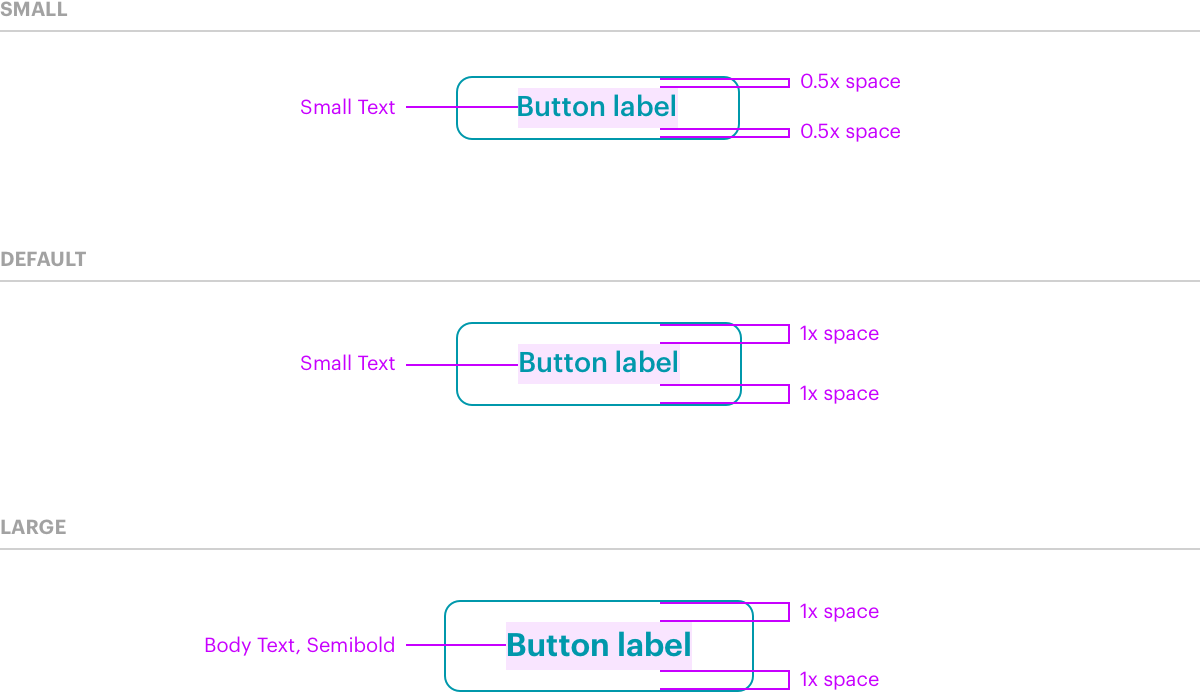
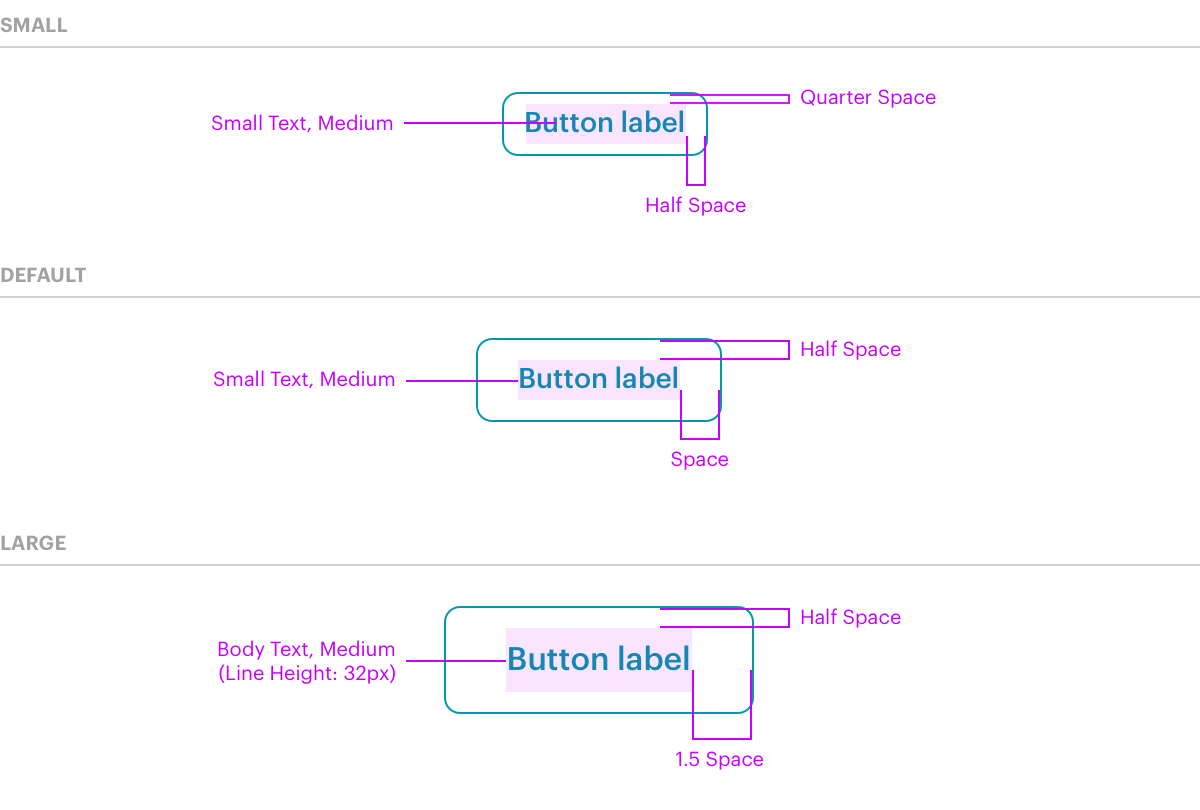
docs: revised buttons page and added spacing page

diff --git a/packages/swarm-docs/src/components/examples/button.js b/packages/swarm-docs/src/components/examples/button.js
@@ -1,67 +1,115 @@
 import React from 'react';
 import { Button } from '@meetup/swarm-components';
-import { Star } from '@meetup/swarm-icons/lib/components/line';
-
+import { Add } from '@meetup/swarm-icons/lib/components/large';
 
 const Example = () => {
   return (
     <>
-      <div style={{marginTop: '8px'}}>
-        <Button reset>
-          Reset (no styles)
-        </Button>
+      <h5>Default</h5>
+      <p>This style is the most common in the product and is a good starting point in many cases.</p>
+      <div style={{margin: '20px 0 30px 0'}}>
+        <span style={{marginRight: '16px', verticalAlign: 'top'}}>
+          <Button small>Small</Button>
+        </span>
+        <span style={{marginRight: '16px', verticalAlign: 'top'}}>
+          <Button>Default</Button>
+        </span>
+        <span style={{marginRight: '16px', verticalAlign: 'top'}}>
+          <Button large>Large</Button>
+        </span>
       </div>
-      <div style={{marginTop: '8px'}}>
-        <Button primary>
-          Primary
-        </Button>
+      <h5>Primary</h5>
+      <p>Use this style for the most important actions within an experience. Only one primary button should be used per screen.</p>
+      <div style={{margin: '20px 0 30px 0'}}>
+        <span style={{marginRight: '16px', verticalAlign: 'top'}}>
+          <Button primary small>Small</Button>
+        </span>
+        <span style={{marginRight: '16px', verticalAlign: 'top'}}>
+          <Button primary>Default</Button>
+        </span>
+        <span style={{marginRight: '16px', verticalAlign: 'top'}}>
+          <Button primary large>Large</Button>
+        </span>
       </div>
-      <div style={{marginTop: '8px'}}>
-        <Button bordered>
-          Bordered
-        </Button>
+      <h5>Neutral</h5>
+      <p>To reduce the visual weight and importance of a button, use this style.</p>
+      <div style={{margin: '20px 0 30px 0'}}>
+        <span style={{marginRight: '16px', verticalAlign: 'top'}}>
+          <Button neutral small>Small</Button>
+        </span>
+        <span style={{marginRight: '16px', verticalAlign: 'top'}}>
+          <Button neutral>Default</Button>
+        </span>
+        <span style={{marginRight: '16px', verticalAlign: 'top'}}>
+          <Button neutral large>Large</Button>
+        </span>
       </div>
-      <div style={{marginTop: '8px'}}>
-        <Button neutral>
-          Neutral
-        </Button>
+      <h5>Bordered</h5>
+      <p>This style has the least visual weight, while still maintaining a button aesthetic.</p>
+      <div style={{margin: '20px 0 30px 0'}}>
+        <span style={{marginRight: '16px', verticalAlign: 'top'}}>
+          <Button bordered small>Small</Button>
+        </span>
+        <span style={{marginRight: '16px', verticalAlign: 'top'}}>
+          <Button bordered>Default</Button>
+        </span>
+        <span style={{marginRight: '16px', verticalAlign: 'top'}}>
+          <Button bordered large>Large</Button>
+        </span>
       </div>
-      <div style={{marginTop: '8px'}}>
-        <Button disabled>
-          Disabled
-        </Button>
+      <h5>Inverted</h5>
+      <p>Use this style when an action must be overlayed on an image or a dark or saturated background.</p>
+      <div style={{backgroundColor:'black', padding: '20px', margin: '20px 0 30px 0', display: 'inline-block'}}>
+        <span style={{marginRight: '16px', verticalAlign: 'top'}}>
+          <Button inverted small>Small</Button>
+        </span>
+        <span style={{marginRight: '16px', verticalAlign: 'top'}}>
+          <Button inverted>Default</Button>
+        </span>
+        <span style={{marginRight: '16px', verticalAlign: 'top'}}>
+          <Button inverted large>Large</Button>
+        </span>
       </div>
-      <div style={{marginTop: '8px'}}>
-        <Button small>
-          Small
-        </Button>
+      <h5>Disabled</h5>
+      <p>When an action is not available to the user, use this style.</p>
+      <div style={{margin: '20px 0 30px 0'}}>
+        <span style={{marginRight: '16px', verticalAlign: 'top'}}>
+          <Button disabled small>Small</Button>
+        </span>
+        <span style={{marginRight: '16px', verticalAlign: 'top'}}>
+          <Button disabled>Default</Button>
+        </span>
+        <span style={{marginRight: '16px', verticalAlign: 'top'}}>
+          <Button disabled large>Large</Button>
+        </span>
       </div>
-      <div style={{marginTop: '8px'}}>
-        <Button iconOnly large>
-          <Star />
-        </Button>
+      <h5>Buttons with icons</h5>
+      <p>Icons can easily be added to any button size. The icon can be configured to appear to the right or left, as well as on its own.</p>
+      <div style={{margin: '20px 0 30px 0'}}>
+        <span style={{marginRight: '16px', verticalAlign: 'top'}}>
+          <Button bordered small icon="add">
+            Add member
+          </Button>
+        </span>
+        <span style={{marginRight: '16px', verticalAlign: 'top'}}>
+          <Button icon="search"/>
+        </span>
+        <span style={{marginRight: '16px', verticalAlign: 'top'}}>
+          <Button primary iconOnly large>
+            <Add />
+          </Button>
+        </span>
+        <span style={{marginRight: '16px', verticalAlign: 'top'}}>
+          <Button neutral icon="arrow-right" right>
+            View group
+          </Button>
+        </span>
       </div>
-      <div style={{marginTop: '8px'}}>
-        <Button icon="add">
-          Icon with text
-        </Button>
-      </div>
-      <div style={{marginTop: '8px'}}>
-        <Button icon="arrow-right" right>
-          Icon (right) with text
-        </Button>
-      </div>
-      <div style={{marginTop: '8px'}}>
-        <Button icon="arrow-right"/><span> (Icon no text)</span>
-      </div>
-      <div style={{marginTop: '8px'}}>
-        <Button grow>
-          Grow (full width)
-        </Button>
-      </div>
-      <div style={{backgroundColor:'black', padding:10, marginTop: '8px'}}>
-        <Button inverted>
-          Inverted
+      <h5>Text only buttons</h5>
+      <p>It is also possible to reset the button style to remove its inherent visual properties.</p>
+      <div style={{margin: '20px 0 30px 0'}}>
+        <Button reset style={{color: '#0098AB'}}>
+          Reset button
         </Button>
       </div>
     </>

diff --git a/packages/swarm-docs/src/assets/docs.css b/packages/swarm-docs/src/assets/docs.css
@@ -1,5 +1,8 @@
 .react-live-preview {
-  margin: 10px 0;
+  margin: 0 0 20px 0;
+  padding: 30px 30px;
+  border: 1px solid var(--color-gray-3);
+  border-top: 0;
 }
 
 h1.docs-title {
@@ -11,15 +14,14 @@ h1.docs-title a {
   color: var(--color-gray-5);
 }
 
+hr {
+  border: 0;
+  height: 0;
+  border-top: 1px solid rbga(255,255,255,1);
+  border-bottom: 1px solid var(--color-gray-3);
+  margin-bottom: var(--space);
+}
 
-/* Swarm Typography Overrides */
-.text--pageTitle {
-  color: var(--color-gray-6);
-  margin: 80px 0 10px;
-}
-.text--body {
-  margin: 0 0 10px;
-}
 
 
 /* Page Layout */
@@ -43,6 +45,10 @@ h1.docs-title a {
   list-style: none;
   margin: 0;
   padding: 0;
+}
+
+.left-nav ul {
+  margin-bottom: var(--space);
 }
 
 .left-nav a {
@@ -82,6 +88,7 @@ h1.docs-title a {
   border-bottom: 2px solid var(--color-indigo);
   margin-right: 5px;
   color: var(--color-gray-7);
+  font-weight: 500;
 }
 
 .props-table th,
@@ -123,6 +130,7 @@ h1.docs-title a {
 .props-table .text-highlight {
   color: var(--color-marigold);
 }
+
 
 /* Content Layout */
 .grid-2-col {
